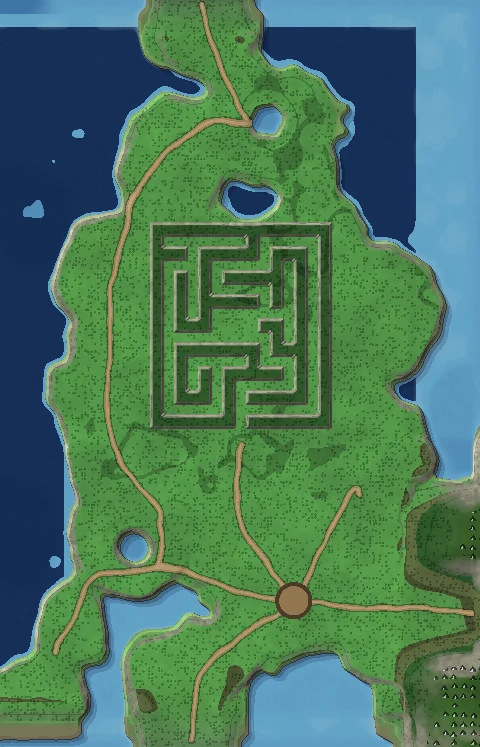
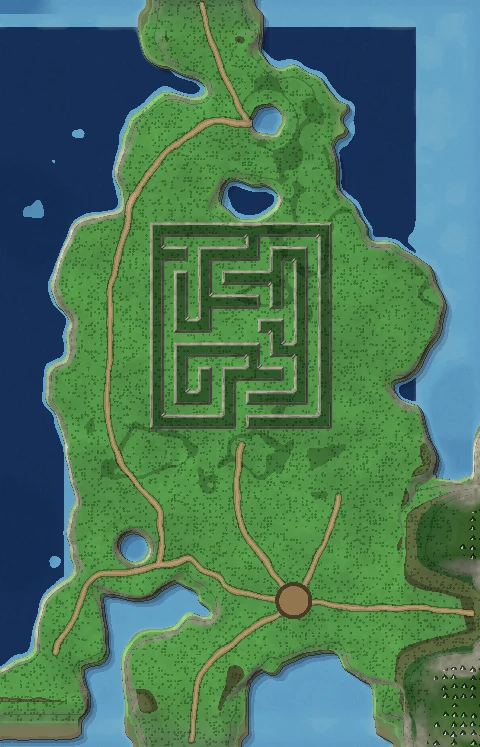
feat(render): full-scale Evergarden architecture and a lusher garden plan
Every built structure doubles to real proportions: the hamlet's inn,
houses, chapel, tavern, smithy, homes, and market, and all of Dawnhold
(keep, towers, curtain walls, gate) re-laid on a wider validated rect,
every wall and building carrying a matched collider. The mill lawn now
turns three larger windmills, each over its own ring bed.

Three satellite beds orbit the grand west quatrefoil, grass grows back
through every bed and slightly past its hedge line and across the
meadow patches beyond the blooms, and the Statuary Walk loses its
rubble colonnade while gaining the path hedge line to the maze mouth.
The Garden Gate becomes a grand entrance: doubled arch, flush flanking
walls with hedge and flower borders on the garden face, and oak shade
trees on the lawns. The pond road reroutes south around the inlet
bluff so the walk holds flat ground the whole way.

Changed region(s): [[0.2812, 0.739, 0.4688, 0.8005], [0.6875, 0.6466, 0.75, 0.7082]]

diff --git a/src/sim/content/evergarden.ts b/src/sim/content/evergarden.ts
@@ -74,17 +74,22 @@ export const EVERGARDEN_ROADS: { x: number; z: number }[][] = [
   [
     { x: 320, z: 810 },
     { x: 298, z: 852 },
-    { x: 276, z: 894 },
-    { x: 272, z: 890 },
+    { x: 290, z: 872 },
+    { x: 288, z: 887 },
   ], // Hedgewick -> the Rose Wilds -> Dawnhold's gate
   [
+    // skirts SOUTH around the bluff dip by the pond inlet: the old straight
+    // line ran down a steep bank; these waypoints hold the flat shelf
     { x: 320, z: 810 },
     { x: 366, z: 818 },
-    { x: 408, z: 832 },
+    { x: 376, z: 826 },
+    { x: 388, z: 832 },
+    { x: 398, z: 839 },
+    { x: 410, z: 836 },
     { x: 422, z: 835 },
-  ], // Hedgewick -> the Petal Pond's west shore
+  ], // Hedgewick -> around the inlet -> the Petal Pond's west shore
   [
-    { x: 408, z: 832 },
+    { x: 410, z: 836 },
     { x: 438, z: 833 },
     { x: 466, z: 827 },
     { x: 480, z: 812 },
@@ -238,29 +243,28 @@ export const EVERGARDEN_OBJECTS: GroundObjectDef[] = [];
 export const EVERGARDEN_PROPS: ZonePropsDef = {
   ...emptyZoneProps(),
   // Hedgewick: the groundskeepers' hamlet by the gate lawns
+  // full-size buildings: the hamlet used to read doll-scale next to a player
   buildings: [
-    { kind: 'inn', x: 312, z: 804, w: 6, d: 7, rot: 0.7 },
-    { kind: 'house', x: 328, z: 818, w: 5, d: 5, rot: -1.0 },
-    { kind: 'house', x: 314, z: 820, w: 5, d: 5, rot: 2.1 },
+    { kind: 'inn', x: 312, z: 804, w: 12, d: 14, rot: 0.7 },
+    { kind: 'house', x: 330, z: 818, w: 10, d: 10, rot: -1.0 },
+    { kind: 'house', x: 312, z: 822, w: 10, d: 10, rot: 2.1 },
   ],
-  wells: [{ x: 320, z: 812, r: 1.5 }],
-  stalls: [{ x: 324, z: 804, rot: 0.5, r: 1.6 }],
+  wells: [{ x: 321, z: 812, r: 1.5 }],
+  stalls: [{ x: 326, z: 802, rot: 0.5, r: 1.6 }],
   crates: [
-    [309, 810],
-    [327, 810],
+    [300, 808],
+    [330, 806],
   ],
   campfires: [
-    [320, 806],
+    [324, 798],
     [388, 716], // the Garden Gate's waycamp
   ],
   // no wooden hedgerow fences: the hamlet opens onto the lawns, and the
   // churchyard's wrought-iron enclosure (decorProps below) is the one border
   fences: [],
-  // the Statuary Walk's marble colonnade, and a folly on the north lawn
-  ruinRings: [
-    { x: 360, z: 875, ringR: 7, columns: 6 },
-    { x: 400, z: 1182, ringR: 6, columns: 5 },
-  ],
+  // a marble folly on the north lawn (the old Statuary Walk colonnade ring
+  // came down: it read as rubble among the flower borders)
+  ruinRings: [{ x: 400, z: 1182, ringR: 6, columns: 5 }],
   // the gardener's own plot, unweeded and unnamed, inside the churchyard
   // (east of the chapel so the Pale Keeper hovers clear of its collider)
   graveyards: [{ x: 309, z: 793 }],
@@ -279,41 +283,56 @@ export const EVERGARDEN_PROPS: ZonePropsDef = {
   // against terrain, roads, camps, and the parterre plan by
   // tests/garden_parterre.test.ts.
   decorProps: [
-    // the Old Mill: centerpiece of the southeast lawn's ring bed at the end
-    // of the lakeshore walk (garden_parterre_core skips its center bush)
-    { key: 'hexWindmill', x: 504, z: 760, rot: -0.3, scale: 6, r: 3.5, h: 9 },
-    // Dawnhold: the walled garden castle on the Rose Wilds lawn. The keep
-    // holds the west side; cannon towers flank the iron-arched east gate,
-    // plain towers watch the rear, and curtain walls close the courtyard.
-    // The wolves' knights patrol the gate lawn outside.
-    { key: 'hexCastle', x: 250, z: 889, rot: Math.PI / 2, scale: 6.5, r: 8, h: 24 },
-    { key: 'hexCannonTower', x: 268, z: 876, rot: Math.PI / 2, scale: 5.5, r: 3, h: 13 },
-    { key: 'hexCannonTower', x: 268, z: 902, rot: Math.PI / 2, scale: 5.5, r: 3, h: 13 },
-    { key: 'hexTower', x: 244, z: 876, rot: Math.PI / 2, scale: 5.5, r: 3, h: 12 },
-    { key: 'hexTower', x: 244, z: 902, rot: Math.PI / 2, scale: 5.5, r: 3, h: 12 },
-    { key: 'hexWall', x: 268, z: 882.5, rot: Math.PI / 2, scale: 5, r: 4, h: 6 },
-    { key: 'hexWall', x: 268, z: 895.5, rot: Math.PI / 2, scale: 5, r: 4, h: 6 },
-    { key: 'hexWall', x: 252, z: 902, rot: 0, scale: 4.5, r: 3.6, h: 6 },
-    { key: 'hexWall', x: 261, z: 902, rot: 0, scale: 4.5, r: 3.6, h: 6 },
-    { key: 'hexWall', x: 252, z: 876, rot: 0, scale: 4.5, r: 3.6, h: 6 },
-    { key: 'hexWall', x: 261, z: 876, rot: 0, scale: 4.5, r: 3.6, h: 6 },
-    { key: 'gardenArch', x: 268, z: 889, rot: Math.PI / 2, scale: 1.4 },
-    { key: 'hexFlag', x: 268, z: 885.6, scale: 3 },
-    { key: 'hexFlag', x: 268, z: 892.4, scale: 3 },
-    { key: 'hexCannonballs', x: 259, z: 897, scale: 5 },
-    { key: 'hexWeaponRack', x: 259, z: 881, rot: 1.2, scale: 8 },
-    { key: 'hexBarracks', x: 278, z: 872, rot: -0.5, scale: 5, r: 4, h: 8 },
-    // Hedgewick's medieval quarter: chapel by the churchyard, tavern on the
-    // pond road, smithy and new homes filling out the hamlet
-    { key: 'hexChurch', x: 300, z: 788, rot: Math.PI / 2, scale: 6, r: 4.2, h: 10 },
-    { key: 'hexTavern', x: 352, z: 806, rot: -1.45, scale: 5.5, r: 4.2, h: 8 },
-    { key: 'hexBlacksmith', x: 296, z: 822, rot: 2.03, scale: 5, r: 3.8, h: 6 },
-    { key: 'hexHomeA', x: 322, z: 828, rot: Math.PI, scale: 5, r: 3.5, h: 7 },
-    { key: 'hexHomeB', x: 334, z: 790, rot: 0.6, scale: 5, r: 3.5, h: 7 },
-    { key: 'hexMarket', x: 318, z: 834, rot: Math.PI, scale: 4, r: 3, h: 5 },
-    // garden arches over the two grand approaches: the Garden Gate road and
-    // the maze mouth (walk-through: no collider, they span the walks)
-    { key: 'gardenArch', x: 391, z: 747, rot: 2.97, scale: 1.4 },
+    // the mill lawn: three windmills turning over their own ring beds at the
+    // end of the lakeshore walk (garden_parterre_core skips their center
+    // bushes; the Old Mill at 504,760 stands tallest)
+    { key: 'hexWindmill', x: 504, z: 760, rot: -0.3, scale: 9, r: 5, h: 13 },
+    { key: 'hexWindmill', x: 492, z: 744, rot: 0.4, scale: 8, r: 4.5, h: 12 },
+    { key: 'hexWindmill', x: 516, z: 750, rot: -1.1, scale: 8, r: 4.5, h: 12 },
+    // Dawnhold: the walled garden castle on the Rose Wilds lawn, built at
+    // full scale. The keep holds the west side; cannon towers flank the
+    // stone-arched east gate, plain towers watch the rear, and curtain
+    // walls close the courtyard. The wolves' knights hold the courtyard
+    // and the gate lawn.
+    { key: 'hexCastle', x: 257, z: 889, rot: Math.PI / 2, scale: 13, r: 15, h: 48 },
+    { key: 'hexCannonTower', x: 282, z: 868, rot: Math.PI / 2, scale: 11, r: 5.5, h: 26 },
+    { key: 'hexCannonTower', x: 282, z: 910, rot: Math.PI / 2, scale: 11, r: 5.5, h: 26 },
+    { key: 'hexTower', x: 242, z: 868, rot: Math.PI / 2, scale: 11, r: 5.5, h: 24 },
+    { key: 'hexTower', x: 242, z: 910, rot: Math.PI / 2, scale: 11, r: 5.5, h: 24 },
+    { key: 'hexWall', x: 282, z: 877, rot: Math.PI / 2, scale: 9, r: 7, h: 10 },
+    { key: 'hexWall', x: 282, z: 901, rot: Math.PI / 2, scale: 9, r: 7, h: 10 },
+    { key: 'hexWall', x: 252, z: 910, rot: 0, scale: 9, r: 7, h: 10 },
+    { key: 'hexWall', x: 270, z: 910, rot: 0, scale: 9, r: 7, h: 10 },
+    { key: 'hexWall', x: 252, z: 868, rot: 0, scale: 9, r: 7, h: 10 },
+    { key: 'hexWall', x: 270, z: 868, rot: 0, scale: 9, r: 7, h: 10 },
+    { key: 'gardenArch', x: 282, z: 889, rot: Math.PI / 2, scale: 2.2 },
+    { key: 'hexFlag', x: 282, z: 884, scale: 4 },
+    { key: 'hexFlag', x: 282, z: 894, scale: 4 },
+    { key: 'hexCannonballs', x: 275, z: 903, scale: 7 },
+    { key: 'hexWeaponRack', x: 275, z: 875, rot: 1.2, scale: 10 },
+    { key: 'hexBarracks', x: 296, z: 870, rot: -0.6, scale: 10, r: 7.5, h: 16 },
+    // Hedgewick's medieval quarter at full scale: chapel by the churchyard,
+    // tavern on the pond road, smithy, homes, and the market stall
+    { key: 'hexChurch', x: 302, z: 788, rot: Math.PI / 2, scale: 10, r: 7, h: 18 },
+    { key: 'hexTavern', x: 352, z: 806, rot: -1.45, scale: 11, r: 8, h: 16 },
+    { key: 'hexBlacksmith', x: 296, z: 822, rot: 2.03, scale: 10, r: 7.6, h: 12 },
+    { key: 'hexHomeA', x: 322, z: 828, rot: Math.PI, scale: 10, r: 7, h: 14 },
+    { key: 'hexHomeB', x: 334, z: 790, rot: 0.6, scale: 10, r: 7, h: 14 },
+    { key: 'hexMarket', x: 316, z: 840, rot: Math.PI, scale: 8, r: 6, h: 9 },
+    // the Garden Gate: a grand doubled arch over the entry road, flanked by
+    // flush stone walls (colliders on), with the parterre core's hedge line
+    // and flower border along their garden face; the maze mouth keeps its
+    // smaller arch (both arches stay walk-through: they span the walks)
+    { key: 'gardenArch', x: 391, z: 747, rot: 2.97, scale: 2.8 },
+    { key: 'hexWall', x: 378.7, z: 744.9, rot: 2.97, scale: 7, r: 6, h: 8 },
+    { key: 'hexWall', x: 370, z: 743.5, rot: 2.97, scale: 7, r: 6, h: 8 },
+    { key: 'hexWall', x: 403.3, z: 749.1, rot: 2.97, scale: 7, r: 6, h: 8 },
+    { key: 'hexWall', x: 415.5, z: 751.2, rot: 2.97, scale: 7, r: 6, h: 8 },
+    // oaks shading the gate lawns
+    { key: 'oakTree', x: 372, z: 760, rot: 0.8, scale: 1.3, r: 0.8, h: 9 },
+    { key: 'oakTree', x: 412, z: 738, rot: 2.1, scale: 1.4, r: 0.8, h: 9 },
+    { key: 'oakTree', x: 408, z: 760, rot: -1.3, scale: 1.2, r: 0.8, h: 9 },
+    { key: 'oakTree', x: 376, z: 732, rot: 0.2, scale: 1.35, r: 0.8, h: 9 },
     { key: 'gardenArch', x: 360, z: 933, rot: 0, scale: 1.4 },
     // watchtowers on the walks: one over the Garden Gate, one at the north
     // knights' post

diff --git a/src/render/garden_parterre_core.ts b/src/render/garden_parterre_core.ts
@@ -59,11 +59,17 @@ export interface TopiarySpot {
 // test re-validates all of that against the live terrain).
 export const PARTERRE_PLOTS: readonly ParterrePlot[] = [
   { x: 322, z: 878, r: 10, kind: 'quatrefoil' }, // west of the Statuary Walk
+  // three smaller satellite beds orbiting the grand west quatrefoil
+  { x: 300, z: 872, r: 5, kind: 'concentric' },
+  { x: 306, z: 894, r: 5, kind: 'knot' },
+  { x: 334, z: 896, r: 5, kind: 'quatrefoil' },
   { x: 400, z: 866, r: 9, kind: 'quatrefoil' }, // east of the Statuary Walk
   // (the Rose Wilds lawn now belongs to Dawnhold castle and its knights)
   { x: 256, z: 952, r: 9, kind: 'knot' }, // west maze forecourt
-  // the far southeast lawn: the old mill turns at the heart of its rings
+  // the mill lawn: three windmills turning over their own ring beds
   { x: 504, z: 760, r: 8.5, kind: 'concentric', centerpiece: 'windmill' },
+  { x: 492, z: 744, r: 7, kind: 'concentric', centerpiece: 'windmill' },
+  { x: 516, z: 750, r: 6.5, kind: 'concentric', centerpiece: 'windmill' },
   { x: 420, z: 750, r: 7.5, kind: 'quatrefoil' }, // east of the Garden Gate road
   { x: 476, z: 1010, r: 7.5, kind: 'knot' }, // east of the maze road
   { x: 300, z: 1118, r: 6, kind: 'concentric' }, // the north lawn
@@ -99,7 +105,18 @@ const GARDEN_Z1 = EVERGARDEN_ZONE.zMax;
 const MAZE_MARGIN = 6;
 const MAZE_X1 = MAZE_X0 + MAZE_COLS * MAZE_CELL;
 // the Statuary Walk keeps its marble pairs: no avenue topiary between them
+// (its path hedges DO run: the clipped line reads well at the statues' feet)
 const STATUE_LANE = { x0: 343, x1: 377, z0: 830, z1: 935 } as const;
+
+// The Garden Gate's welcome front: the doubled stone arch at the zone entry
+// with flanking walls (EVERGARDEN_PROPS.decorProps), dressed on the garden
+// side with a clipped hedge line and a flower border. Wall-line coordinates:
+// u runs along the wall line, v is the offset toward the garden (north).
+const GATE = { x: 391, z: 747, rot: 2.97 } as const;
+const GATE_P = { x: Math.cos(GATE.rot), z: -Math.sin(GATE.rot) } as const; // wall line dir
+const GATE_N = { x: -Math.sin(GATE.rot), z: -Math.cos(GATE.rot) } as const; // garden side
+const GATE_HALF = 24; // the dressed frontage on each side of the arch
+const GATE_MOUTH = 7; // clear of the arch opening
 
 function smoothstep(e0: number, e1: number, v: number): number {
   const t = Math.min(1, Math.max(0, (v - e0) / (e1 - e0)));
@@ -169,6 +186,17 @@ export function parterreFlowerTintAt(x: number, z: number): number {
     const s = u / stripeW + 8; // shift positive so floor() is stable
     const stripe = Math.floor(s) % 3;
     return stripe === 0 ? ca : stripe === 1 ? cb : cd;
+  }
+  // the Garden Gate's flower border, along the garden face of its walls
+  {
+    const gdx = x - GATE.x;
+    const gdz = z - GATE.z;
+    const u = gdx * GATE_P.x + gdz * GATE_P.z;
+    const v = gdx * GATE_N.x + gdz * GATE_N.z;
+    if (Math.abs(u) > GATE_MOUTH && Math.abs(u) < GATE_HALF && v > 2.8 && v < 4.6) {
+      const block = Math.abs(Math.floor((u + 60) / 6));
+      return RIBBON_TINTS[block % RIBBON_TINTS.length];
+    }
   }
   // the walk ribbons: continuous border beds behind the path hedges
   if (x > GARDEN_X0 + 12 && x < GARDEN_X1 - 12 && z > GARDEN_Z0 + 10 && z < GARDEN_Z1 - 10) {
@@ -317,8 +345,6 @@ export function parterreBushSpots(seed: number): ParterreBushSpot[] {
           const x = cx - uz * side * HEDGE_OFFSET;
           const z = cz + ux * side * HEDGE_OFFSET;
           if (inMazeRect(x, z)) continue;
-          if (x > STATUE_LANE.x0 && x < STATUE_LANE.x1 && z > STATUE_LANE.z0 && z < STATUE_LANE.z1)
-            continue;
           if (Math.hypot(x - hub.x, z - hub.z) < hub.radius + 4) continue;
           // a crossing road runs closer than this spot's own: a junction gap
           if (roadDistance(x, z) < HEDGE_OFFSET - 0.8) continue;
@@ -330,7 +356,34 @@ export function parterreBushSpots(seed: number): ParterreBushSpot[] {
       if (carry >= HEDGE_STEP) carry -= HEDGE_STEP;
     }
   }
+  // the Garden Gate's hedge line, hugging the garden face of its walls
+  for (const side of [-1, 1]) {
+    for (let u = GATE_MOUTH + 1; u <= GATE_HALF - 1; u += HEDGE_STEP) {
+      const x = GATE.x + GATE_P.x * u * side + GATE_N.x * 2.0;
+      const z = GATE.z + GATE_P.z * u * side + GATE_N.z * 2.0;
+      hedge(x, z);
+    }
+  }
   return out;
+}
+
+/**
+ * True where lawn grass should grow back around the plantings: inside and
+ * just beyond every bed's hedge line, and across the meadow patches a bit
+ * past where the flowers stop, so both read lush instead of clipped edges.
+ */
+export function gardenLushGrassAt(x: number, z: number): boolean {
+  if (inParterrePlot(x, z, 1.8)) return true;
+  if (x < GARDEN_X0 + 12 || x > GARDEN_X1 - 12 || z < GARDEN_Z0 + 10 || z > GARDEN_Z1 - 10) {
+    return false;
+  }
+  if (inMazeRect(x, z)) return false;
+  const hub = EVERGARDEN_ZONE.hub;
+  if (Math.hypot(x - hub.x, z - hub.z) < hub.radius + 10) return false;
+  if (roadDistance(x, z) < 6.5) return false;
+  // the meadow patch shape at a looser threshold than the flowers (0.62), so
+  // the grass halo runs a little beyond the blooms
+  return fbm2(x * 0.045, z * 0.045, 7301, 2) >= 0.58;
 }
 
 /**

diff --git a/src/render/foliage.ts b/src/render/foliage.ts
@@ -24,6 +24,7 @@ import { loadGltf } from './assets/loader';
 import { registerPreload } from './assets/preload';
 import { bucketVisible, type LodDists, lodDistsFor, treeDetailDistance } from './foliage_lod';
 import {
+  gardenLushGrassAt,
   gardenMeadowTintAt,
   inParterrePlot,
   parterreBushSpots,
@@ -1815,9 +1816,11 @@ function buildGrassRing(parent: THREE.Group, seed: number): GrassRing {
         if (Math.abs(x) > WORLD_MAX_X - 16 || z < WORLD_MIN_Z + 16 || z > WORLD_MAX_Z - 16)
           continue;
         const tuftBiome = zoneBiomeAt(x, z);
-        // the Evergarden lawn is mown bare, but INSIDE a parterre bed grass
-        // fills the gaps between blooms the way a real planting grows in
-        const gardenBedTuft = tuftBiome === 'garden' && inParterrePlot(x, z, -1.2);
+        // the Evergarden lawn is mown bare, but around the plantings grass
+        // grows back the way a real bed does: through every parterre bed
+        // and slightly past its hedge line, and across the meadow patches a
+        // little beyond where the flowers stop
+        const gardenBedTuft = tuftBiome === 'garden' && gardenLushGrassAt(x, z);
         const density =
           (lush ? GRASS_DENSITY_HIGH : GRASS_DENSITY_LOW) *
           (gardenBedTuft ? 0.9 : (GRASS_BIOME_DENSITY[tuftBiome] ?? 1));

diff --git a/src/render/props.ts b/src/render/props.ts
@@ -169,6 +169,9 @@ const PROP_ASSET_DEFS: Record<string, PropAssetDef> = {
   hexWeaponRack: { url: '/models/biome/hex_weaponrack.glb', kit: 'khex' },
   hexFlag: { url: '/models/biome/hex_flag.glb', kit: 'khex' },
   hexWheelbarrow: { url: '/models/biome/hex_wheelbarrow.glb', kit: 'khex' },
+  // a placeable oak (the foliage kit's biggest crown) for authored shade
+  // spots like the Garden Gate lawns; decor entries set scale, r is trunk
+  oakTree: { url: '/models/foliage/oak_4.glb', kit: 'kfol' },
   gardenIronFence: { url: '/models/props/garden_iron_fence.glb', kit: 'kiron' },
   gardenIronPillar: { url: '/models/props/garden_iron_pillar.glb', kit: 'kiron' },
   gardenIronGate: { url: '/models/props/garden_iron_gate.glb', kit: 'kiron' },
